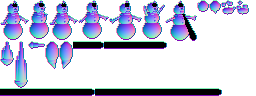
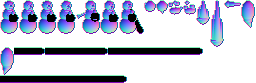
The snowman holds the Christmas ball: clear glass, dark inside
In the park's lamplight the red ball in his forehead read as a hat. Now he holds a glass
ornament before his chest: a light blue rim with a shine, dark inside with a faint violet glow
and a little snow (where Hina is), a silver cap and ring; both hands round it (one while he
throws). Rendered at 1.0 and drawn grown at 170 % (183 tiles); the sticks and the carrot take
one colour each.

Claude-Session: https://claude.ai/code/session_01JTWCV3D9MtkUDk5h3ih96J

diff --git a/assets/mitsuki/park/snowman.py b/assets/mitsuki/park/snowman.py
@@ -1,10 +1,10 @@
 # SPDX-License-Identifier: BSD-2-Clause OR MIT
 """The snowman in the snowy park (Mitsuki's story: snowman.ms): three balls of snow, coal eyes,
-a carrot nose, stick arms, a red scarf, and set into his forehead a Christmas ball: red glass
-with a shine, a golden cap and hook, glowing faintly from inside (where Hina is). Grabbed at the ball he
-holds on, grows and fights; beaten, he is a happy snowman again.
+a carrot nose, stick arms, a red scarf, and in his hands before his chest a Christmas ball:
+clear glass, dark inside with a faint violet glow (where Hina is), a silver cap and ring.
+Grabbed at the ball he holds on, grows and fights; beaten, he is a happy snowman again.
 
-One size of him: grown, the engine draws him larger (set_scale 155: affine sprites; his boxes
+One size of him: grown, the engine draws him larger (set_scale 170: affine sprites; his boxes
 in the sheet made as large, snowman_sheet.py). He is built twice (the rig has no groups per
 pose for the faces of both), as built (s) and as the boss (b). snowman_sheet.py then makes the
 beam's middle the same all along. (One sheet for him and his fight's things, the park's sprite
@@ -14,7 +14,7 @@ memory: the pack holds 28 sprites, all used.)
       --layout assets/mitsuki/park/snowman_layout.bmsprite --sink 2 --out assets/mitsuki/park --name snowman
   python3 assets/mitsuki/park/snowman_sheet.py assets/mitsuki/park/sources/snowman
 
-Frames: 0 standing still (a straight coal mouth), 1 holding on (his sticks round the ball), 2
+Frames: 0 standing still (a straight coal mouth), 1 holding on (his sticks tight round the ball), 2
 happy (small, smiling); the boss: 3 standing, 4 throwing (a stick arm back), 5 in a jump (arms
 up), 6 his frost breath (the frost pouring from his mouth to the ground before him); then the
 fight's things. Struck, he flashes (the engine's).
@@ -24,13 +24,14 @@ OUT = (24, 20, 36)
 SNOW = [(150, 170, 200), (205, 220, 240), (250, 252, 255)]
 COAL = [(30, 28, 36)]
 SCARF = [(150, 30, 44), (210, 60, 70)]
-BALL = [(84, 12, 28)] + SCARF          # red glass (the scarf's reds and a deep one)
+INSIDE = [(36, 16, 52), (110, 56, 150)]   # the Christmas ball's inside: dark, a faint violet glow (Hina there)
 CAP = [(220, 180, 80)]
-STICK = [(84, 56, 36), (120, 84, 52)]
-CARROT = [(200, 92, 24), (245, 150, 50)]
+STICK = [(100, 70, 44)]
+CARROT = [(230, 120, 36)]
 ICE = [(110, 170, 225), (190, 230, 255)]
+SILVER = [(96, 100, 120), SNOW[0]]      # the ball's cap (darker than the snow it is seen against)
 
-SIZE = 1.1          # both of him (grown: drawn at 155 %, snowman.ms)
+SIZE = 1.0          # both of him (grown: drawn at 170 %, snowman.ms)
 SMALL, BIG = SIZE, SIZE
 SIZES = (('s', SMALL), ('b', BIG))
 SIDES = (('R', -1), ('L', 1))
@@ -46,11 +47,14 @@ def build(Rig):
     r.inner_lines = 3.0
     r.material('snow', SNOW, bands=[0.35, 0.75])
     r.material('coal', COAL, weight=8, min_cover=0.15, bands=[], keep_inner=True)
-    r.material('ball', BALL, weight=6, min_cover=0.2, bands=[0.35, 0.75], keep_inner=True, emissive=True)
+    # The Christmas ball: clear glass (its rim, light blue; a shine), dark inside, a silver cap.
+    r.material('glass', ICE + [SNOW[2]], weight=6, min_cover=0.15, bands=[0.4, 0.8], keep_inner=True, emissive=True)
+    r.material('inside', INSIDE, weight=7, min_cover=0.2, bands=[0.5], keep_inner=True, emissive=True)
+    r.material('silver', SILVER, weight=8, min_cover=0.1, bands=[0.5], keep_inner=True)
     r.material('cap', CAP, weight=7, min_cover=0.2, bands=[], keep_inner=True)
     r.material('shine', [SNOW[2]], weight=9, min_cover=0.1, bands=[], keep_inner=True, emissive=True)
-    r.material('carrot', CARROT, weight=7, min_cover=0.2, bands=[0.5], keep_inner=True)
-    r.material('stick', STICK, weight=3, min_cover=0.15, bands=[0.5])
+    r.material('carrot', CARROT, weight=7, min_cover=0.2, bands=[], keep_inner=True)
+    r.material('stick', STICK, weight=3, min_cover=0.15, bands=[])
     r.material('scarf', SCARF, bands=[0.5])
     # (The fight's things: what strikes has a material of its own, its hit box.)
     r.material('ice', ICE + [SNOW[2]], bands=[0.4, 0.8])
@@ -88,10 +92,7 @@ def man(r, n, k):
     r.tube(j('body'), 'scarf', at(0, 0, 23.6), at(0, 0, 22.4), 4.6 * k, 4.8 * k, caps=False, group=g)
     r.tube(j('body'), 'scarf', at(2.5, -3.0, 23.0), at(3.5, -3.6, 18.0), 1.1 * k, 0.9 * k, group=g)
     # The Christmas ball, set into his forehead: red glass with a shine, its golden cap and hook.
-    r.ellipsoid(j('head'), 'ball', at(3.3, 0, 31.7), at(1.9, 1.9, 1.9), group=g)
-    r.ellipsoid(j('head'), 'shine', at(4.7, -0.7, 32.5), at(0.45, 0.45, 0.45), group=g)
-    r.tube(j('head'), 'cap', at(3.2, 0, 33.4), at(3.1, 0, 34.2), 0.8 * k, 0.75 * k, group=g)
-    r.tube(j('head'), 'cap', at(3.1, -0.4, 34.1), at(3.1, 0.4, 34.9), 0.22 * k, group=g)
+    christmas_ball(r, j('body'), at, k, g)
     # The carrot nose.
     r.tube(j('head'), 'carrot', at(4.2, 0, 28.2), at(7.8, 0.3, 27.6), 0.85 * k, 0.12 * k, group=g)
     # Coal eyes; a mouth of coal under the nose: straight, angry (down at the ends), smiling, or
@@ -116,6 +117,28 @@ def man(r, n, k):
         for f in (-1, 1):
             r.tube(j('arm_' + s), 'stick', at(0, 5.0 * y, 13.5), at(1.2 * f, 5.0 * y + 0.8 * f, 11.0), 0.3 * k, 0.2 * k,
                    group=g)
+
+
+BALL_AT = (8.2, 0.0, 16.5)   # the Christmas ball before his chest, in his hands
+BALL_R = 4.2
+
+
+def christmas_ball(r, joint, at, k, g):
+    """The Christmas ball he holds: clear glass (a light blue rim, a shine up toward the light),
+    dark inside with a faint violet glow and a little snow at its bottom, a silver cap and ring.
+    What is inside lies toward the viewer (from (0.866, -0.5)), so the glass shows as a rim."""
+    cx, cy, cz = BALL_AT
+    rr = BALL_R
+
+    def near(f, up=0.0, side=0.0):
+        # From the middle toward the viewer by f radii, up and along the view's right by radii.
+        return at(cx + rr * (0.866 * f + 0.5 * side), cy + rr * (-0.5 * f + 0.866 * side), cz + rr * up)
+    r.ellipsoid(joint, 'glass', at(cx, cy, cz), (rr * k, rr * k, rr * k), group=g)
+    r.ellipsoid(joint, 'inside', near(0.3), (0.78 * rr * k,) * 3, group=g)
+    r.ellipsoid(joint, 'snow', near(0.45, -0.5), (0.62 * rr * k, 0.62 * rr * k, 0.25 * rr * k), group=g)
+    r.ellipsoid(joint, 'shine', near(0.8, 0.45, -0.35), (0.2 * rr * k,) * 3, group=g)
+    r.tube(joint, 'silver', at(cx, cy, cz + rr * 0.9), at(cx, cy, cz + rr * 1.25), 0.38 * rr * k, 0.36 * rr * k, group=g)
+    r.tube(joint, 'silver', at(cx, cy - 0.3, cz + rr * 1.22), at(cx, cy + 0.3, cz + rr * 1.5), 0.08 * rr * k, group=g)
 
 
 def things(r):
@@ -169,15 +192,16 @@ SIDE = (0.0, 0.0)   # straight from the side: the beam's rows the same all along
 
 
 def poses():
-    rest = dict(arm_R=(30, -50), arm_L=(30, 50))
+    hold = dict(arm_R=(62, 10), arm_L=(62, -10))          # his hands round the ball
+    tight = dict(arm_R=(64, 16), arm_L=(64, -16))         # holding on (she grabs it)
     return [
-        pose('s', 'still', **rest),                                                    # 0 still
-        pose('s', 'angry', arm_R=(95, 20), arm_L=(95, -20), head=-6),                  # 1 holding on
-        pose('s', 'happy', **rest),                                                    # 2 happy
-        pose('b', 'angry', arm_R=(40, -60), arm_L=(40, 60), head=-4),                  # 3 the boss standing
-        pose('b', 'angry', arm_R=(-60, -40), arm_L=(30, 60), body=8, head=-6),         # 4 throwing
-        pose('b', 'angry', arm_R=(160, -30), arm_L=(160, 30), head=-8),                # 5 in a jump
-        pose('b', 'roar', extra=('b_breath',), arm_R=(60, -70), arm_L=(60, 70), body=4, head=8),  # 6 frost breath
+        pose('s', 'still', **hold),                                                     # 0 still
+        pose('s', 'angry', head=-6, **tight),                                           # 1 holding on
+        pose('s', 'happy', **hold),                                                     # 2 happy
+        pose('b', 'angry', head=-4, **hold),                                            # 3 the boss standing
+        pose('b', 'angry', arm_R=(-60, -40), arm_L=(62, -10), body=6, head=-6),         # 4 throwing (one hand on it)
+        pose('b', 'angry', head=-8, **tight),                                           # 5 in a jump
+        pose('b', 'roar', extra=('b_breath',), body=4, head=8, **hold),                 # 6 frost breath
         # The fight's things: 7, 8 the snowball rolling; 9, 10 the ripple; 11, 12 the pillar
         # (rising, standing); 13 an icicle; 14, 15 the shadow; 16 on the frost beam, 1 to BEAMS
         # pieces long.

diff --git a/tests/test_game.c b/tests/test_game.c
@@ -4036,7 +4036,7 @@ static void testTheSearchAndTheSnow(void)
 }
 
 // The snowman in the snowy park (assets/mitsuki/snowman): once it snows he stands there, a
-// Christmas ball in his forehead. Up in front of him: Mitsuki doubts anyone built him tonight; Up
+// Christmas ball in his hands. Up in front of him: Mitsuki doubts anyone built him tonight; Up
 // again: she grabs the ball, he holds on, grows and fights: jumps at her (landing where she
 // stood), a ripple through the ground and a pillar of ice breaking out where she was, snowballs,
 // his frost beam (behind a pillar it does not reach her; in the open it strikes), and from half

diff --git a/assets/mitsuki/park/snowman_sheet.py b/assets/mitsuki/park/snowman_sheet.py
@@ -18,7 +18,7 @@ import xml.etree.ElementTree as ET
 from PIL import Image
 
 BOSS = (3, 4, 5, 6)                  # drawn at SCALE (snowman.ms set_scale): their boxes as large
-SCALE = 1.55
+SCALE = 1.7
 BEAMS = (16, 17, 18, 19)             # the beam, 1 to 4 pieces of BEAM long
 BEAM = 32
 TIP = 6                              # the beam's rounded end (pixels)

diff --git a/docs/plans/3d-sprites.md b/docs/plans/3d-sprites.md
@@ -292,10 +292,10 @@ room by the property `Search.Room`):
 ### The snowman (`assets/mitsuki/snowman`)
 
 Back in the snowy park a snowman stands by the path (`snowman.py`: three balls of snow, coal
-eyes, a carrot nose, stick arms, a red scarf, and set into his forehead a Christmas ball: red
-glass with a shine, a golden cap and hook, glowing from inside). Up beside him the first time:
+eyes, a carrot nose, stick arms, a red scarf, and in his hands a Christmas ball: clear glass,
+dark inside with a faint violet glow, a silver cap and ring). Up beside him the first time:
 "Who builds a snowman in the middle of the night?" The second time she grabs the ball; he holds
-on, grows to 155 % and fights (`snowman.ms`, health 30, the music `frost_waltz`):
+on, grows to 170 % and fights (`snowman.ms`, health 30, the music `frost_waltz`):
 
 | Attack | |
 |---|---|
@@ -309,11 +309,11 @@ Beaten, a shadow leaves him and he is a happy snowman again (`SnowmanDone`, save
 How it fits:
 
 - **Grown by the PPU**: all his frames are rendered at one size; grown, the engine draws him at
-  155 % (`set_scale`, runtime-core.md: affine sprites). The grown frames' boxes are made as
+  170 % (`set_scale`, runtime-core.md: affine sprites). The grown frames' boxes are made as
   large in the sheet (`snowman_sheet.py`), so the hits need nothing.
 - **One sheet**: the pack has its 28 sprites, so his fight's things are frames of his sheet
   (the snowball, the ripple, the pillar rising and standing, an icicle, the shadow, the beam).
-  229 tiles: in the park, besides Mitsuki's figure and the doors' sheet, 287 are left.
+  183 tiles: in the park, besides Mitsuki's figure and the doors' sheet, 287 are left.
 - **The beam**: four lengths of 32 pixels each, one tile row high (two rows would be covered
   with 64 x 32 pieces, half empty), its middle one column repeated, so its pieces are shared; a
   beam longer than 128 pixels (a frame's most) is two, the far one beyond the near one.
